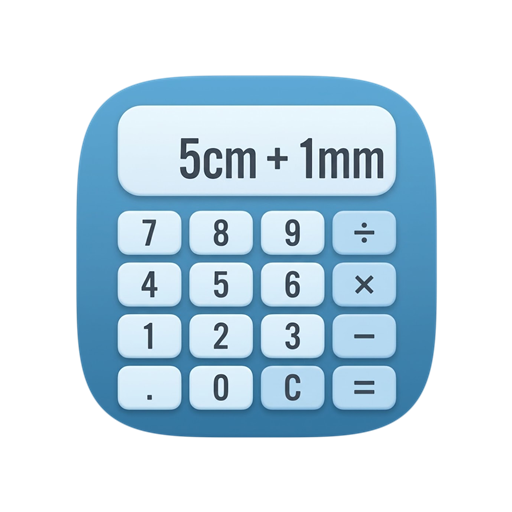
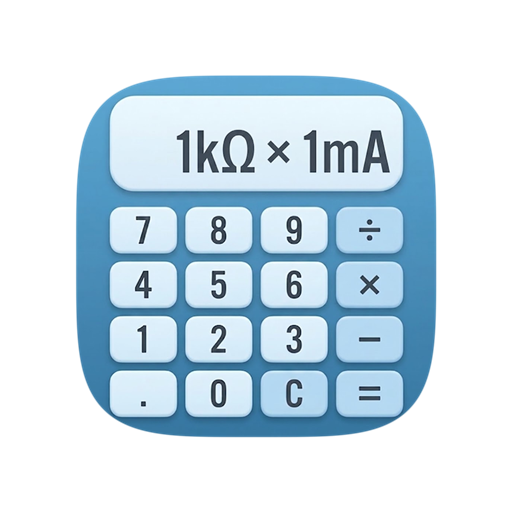
feat: アプリアイコンの刷新とストア用フィーチャーグラフィックの各国語更新
- アプリアイコンを「1kΩ × 1mA」電卓デザインへ刷新（アプリアイコン、適応型アイコン、スプラッシュ、ファビコン等）
- README およびアプリ内のオンボーディング／クイックスタート文言をアイコンに合わせて更新
- scripts/generate-feature-graphic.mjs を更新し、新文言（「計算に集中。単位合わせはUnitCalcに。」「1kΩ × 1mA → 1V」「電工試験から、科学・技術計算まで。」）を各国語（ja, en, de, fr, es, pt-BR）で再生成
- タイポグラフィ改善（JetBrains Mono, Noto Sans JP, Inter）と Windows 環境のブラウザ自動検出対応
- 全6言語の feature graphic および Play Store アイコンを更新

diff --git a/app/(tabs)/index.tsx b/app/(tabs)/index.tsx
@@ -71,11 +71,11 @@ const DEFAULT_TARGET_UNIT = "";
 const HEX_LETTER_KEYS = ["A", "B", "C", "D", "E", "F"];
 
 // 空状態の結果カードに置く「まず1つ試す」式。サンプルシート（SAMPLE_CALCULATIONS）の縮約版ではなく、
-// このアプリの3つの売り（単位のまま足せる・答えが読みやすい接頭語で返る・速さ×時間が距離になる）を
+// このアプリの3つの売り（オームの法則で電圧が求まる・答えが読みやすい接頭語で返る・速さ×時間が距離になる）を
 // 1タップずつで見せるための固定3件。表示単位は指定せず、表示単位の自動選択（lib/display-unit.ts）に
-// 任せる（5.1 cm / 2.55 mA / 90 km になることが、そのまま自動選択のデモになる）。
-const QUICK_START: { id: "length" | "current" | "distance"; expression: string }[] = [
-  { id: "length", expression: "5cm + 1mm" },
+// 任せる（1 V / 2.55 mA / 90 km になることが、そのまま自動選択のデモになる）。
+const QUICK_START: { id: "ohms_law" | "current" | "distance"; expression: string }[] = [
+  { id: "ohms_law", expression: "1kΩ × 1mA" },
   { id: "current", expression: "12V / 4.7kΩ" },
   { id: "distance", expression: "60km/h × 90min" },
 ];
@@ -100,7 +100,7 @@ const EN_COPY = {
   chooseSampleToStart: "Choose a sample calculation to begin.",
   savedItemLoaded: "Saved item loaded. Tap = to run it.",
   couldNotCopyCalculation: "Could not copy this calculation.",
-  expressionPlaceholder: "Example: 5cm + 1mm",
+  expressionPlaceholder: "Example: 1kΩ × 1mA",
   deleteKey: "Delete",
   clearAllKey: "Clear all",
   skip: "Skip",
@@ -121,7 +121,7 @@ const EN_COPY = {
   sampleConfirmButton: "Load",
   incompleteHint: "Keep typing — the result appears as soon as the expression is complete.",
   quickStartTitle: "Try one",
-  quickStartLength: "Add lengths in different units",
+  quickStartOhmsLaw: "Ohm's law — the answer comes back in V",
   quickStartCurrent: "Ohm's law — the answer comes back in mA",
   quickStartDistance: "Speed × time, shown in km",
 };
@@ -139,7 +139,7 @@ const COPY: Record<AppLanguage, typeof EN_COPY> = {
     chooseSampleToStart: "サンプル計算式を選んで試せます。",
     savedItemLoaded: "保存した項目を読み込みました。「=」を押して実行できます。",
     couldNotCopyCalculation: "計算結果をコピーできませんでした。",
-    expressionPlaceholder: "例：5cm + 1mm",
+    expressionPlaceholder: "例：1kΩ × 1mA",
     deleteKey: "一文字削除",
     clearAllKey: "全消去",
     skip: "スキップ",
@@ -160,7 +160,7 @@ const COPY: Record<AppLanguage, typeof EN_COPY> = {
     sampleConfirmButton: "読み込む",
     incompleteHint: "続けて入力すると、式が完成した時点で結果が出ます。",
     quickStartTitle: "試してみる",
-    quickStartLength: "単位の違う長さを足す",
+    quickStartOhmsLaw: "オームの法則 — 答えは 1 V で返る",
     quickStartCurrent: "オームの法則 — 答えは mA で返る",
     quickStartDistance: "速さ × 時間を km で表示",
   },
@@ -176,7 +176,7 @@ const COPY: Record<AppLanguage, typeof EN_COPY> = {
     chooseSampleToStart: "Elige un cálculo de ejemplo para empezar.",
     savedItemLoaded: "Elemento guardado cargado. Toca = para ejecutarlo.",
     couldNotCopyCalculation: "No se pudo copiar este cálculo.",
-    expressionPlaceholder: "Ejemplo: 5cm + 1mm",
+    expressionPlaceholder: "Ejemplo: 1kΩ × 1mA",
     deleteKey: "Eliminar",
     clearAllKey: "Borrar todo",
     skip: "Omitir",
@@ -197,7 +197,7 @@ const COPY: Record<AppLanguage, typeof EN_COPY> = {
     sampleConfirmButton: "Cargar",
     incompleteHint: "Sigue escribiendo: el resultado aparece en cuanto la expresión esté completa.",
     quickStartTitle: "Prueba uno",
-    quickStartLength: "Suma longitudes en distintas unidades",
+    quickStartOhmsLaw: "Ley de Ohm: la respuesta sale en V",
     quickStartCurrent: "Ley de Ohm: la respuesta sale en mA",
     quickStartDistance: "Velocidad × tiempo, mostrado en km",
   },
@@ -213,7 +213,7 @@ const COPY: Record<AppLanguage, typeof EN_COPY> = {
     chooseSampleToStart: "Escolha um cálculo de exemplo para começar.",
     savedItemLoaded: "Item salvo carregado. Toque em = para executá-lo.",
     couldNotCopyCalculation: "Não foi possível copiar este cálculo.",
-    expressionPlaceholder: "Exemplo: 5cm + 1mm",
+    expressionPlaceholder: "Exemplo: 1kΩ × 1mA",
     deleteKey: "Excluir",
     clearAllKey: "Limpar tudo",
     skip: "Pular",
@@ -234,7 +234,7 @@ const COPY: Record<AppLanguage, typeof EN_COPY> = {
     sampleConfirmButton: "Carregar",
     incompleteHint: "Continue digitando: o resultado aparece assim que a expressão estiver completa.",
     quickStartTitle: "Experimente",
-    quickStartLength: "Some comprimentos em unidades diferentes",
+    quickStartOhmsLaw: "Lei de Ohm: a resposta sai em V",
     quickStartCurrent: "Lei de Ohm: a resposta sai em mA",
     quickStartDistance: "Velocidade × tempo, exibido em km",
   },
@@ -250,7 +250,7 @@ const COPY: Record<AppLanguage, typeof EN_COPY> = {
     chooseSampleToStart: "Wähle eine Beispielberechnung, um zu starten.",
     savedItemLoaded: "Gespeicherter Eintrag geladen. Tippe auf =, um ihn auszuführen.",
     couldNotCopyCalculation: "Diese Berechnung konnte nicht kopiert werden.",
-    expressionPlaceholder: "Beispiel: 5cm + 1mm",
+    expressionPlaceholder: "Beispiel: 1kΩ × 1mA",
     deleteKey: "Rücktaste",
     clearAllKey: "Alles löschen",
     skip: "Überspringen",
@@ -271,7 +271,7 @@ const COPY: Record<AppLanguage, typeof EN_COPY> = {
     sampleConfirmButton: "Laden",
     incompleteHint: "Tippe weiter – das Ergebnis erscheint, sobald der Ausdruck vollständig ist.",
     quickStartTitle: "Probier eins",
-    quickStartLength: "Längen in verschiedenen Einheiten addieren",
+    quickStartOhmsLaw: "Ohmsches Gesetz – die Antwort kommt in V",
     quickStartCurrent: "Ohmsches Gesetz – die Antwort kommt in mA",
     quickStartDistance: "Geschwindigkeit × Zeit, angezeigt in km",
   },
@@ -287,7 +287,7 @@ const COPY: Record<AppLanguage, typeof EN_COPY> = {
     chooseSampleToStart: "Choisissez un calcul d'exemple pour commencer.",
     savedItemLoaded: "Élément enregistré chargé. Appuyez sur = pour l'exécuter.",
     couldNotCopyCalculation: "Impossible de copier ce calcul.",
-    expressionPlaceholder: "Exemple : 5cm + 1mm",
+    expressionPlaceholder: "Exemple : 1kΩ × 1mA",
     deleteKey: "Supprimer",
     clearAllKey: "Tout effacer",
     skip: "Passer",
@@ -308,7 +308,7 @@ const COPY: Record<AppLanguage, typeof EN_COPY> = {
     sampleConfirmButton: "Charger",
     incompleteHint: "Continuez à saisir : le résultat apparaît dès que l'expression est complète.",
     quickStartTitle: "Essayez",
-    quickStartLength: "Additionner des longueurs d'unités différentes",
+    quickStartOhmsLaw: "Loi d'Ohm : la réponse s'affiche en V",
     quickStartCurrent: "Loi d'Ohm : la réponse s'affiche en mA",
     quickStartDistance: "Vitesse × temps, affiché en km",
   },
@@ -318,34 +318,34 @@ const COPY: Record<AppLanguage, typeof EN_COPY> = {
 type OnboardingSlide = { title: string; body: string; example: string };
 const ONBOARDING_SLIDES: Record<AppLanguage, OnboardingSlide[]> = {
   en: [
-    { title: "Calculate with units, directly", body: "Type an expression with units, such as 5cm + 1mm. The app normalizes it to SI before calculating.", example: "5cm + 1mm" },
+    { title: "Calculate with units, directly", body: "Type an expression with units, such as 1kΩ × 1mA. The app normalizes it to SI before calculating.", example: "1kΩ × 1mA" },
     { title: "Mistakes are caught, not calculated", body: "3m + 2kg is refused with the reason: length and mass cannot be added. Mistyped units turn red — tap one to fix it.", example: "3m + 2kg" },
-    { title: "Answers in the unit you mean", body: "5cm + 1mm comes back as 5.1 cm, and 12V / 4.7kΩ as 2.55 mA. Tap a chip under the result to switch units. Step-by-step formulas live in the Library tab.", example: "12V / 4.7kΩ" },
+    { title: "Answers in the unit you mean", body: "1kΩ × 1mA comes back as 1 V, and 12V / 4.7kΩ as 2.55 mA. Tap a chip under the result to switch units. Step-by-step formulas live in the Library tab.", example: "12V / 4.7kΩ" },
   ],
   ja: [
-    { title: "単位のまま計算できます", body: "5cm + 1mm のように単位を含む式を入力するだけです。計算前にSI標準へ正規化されます。", example: "5cm + 1mm" },
+    { title: "単位のまま計算できます", body: "1kΩ × 1mA のように単位を含む式を入力するだけです。計算前にSI標準へ正規化されます。", example: "1kΩ × 1mA" },
     { title: "間違いは計算せず、理由を教えます", body: "3m + 2kg は「長さと質量は足し引きできません」と止まります。入力ミスの単位は赤くなり、タップで直せます。", example: "3m + 2kg" },
-    { title: "答えは読みたい単位で", body: "5cm + 1mm は 5.1 cm、12V / 4.7kΩ は 2.55 mA で返ります。結果の下のチップで単位を切り替えられます。手順のある公式は「ライブラリ」タブにあります。", example: "12V / 4.7kΩ" },
+    { title: "答えは読みたい単位で", body: "1kΩ × 1mA は 1 V、12V / 4.7kΩ は 2.55 mA で返ります。結果の下のチップで単位を切り替えられます。手順のある公式は「ライブラリ」タブにあります。", example: "12V / 4.7kΩ" },
   ],
   es: [
-    { title: "Calcula directamente con unidades", body: "Escribe una expresión con unidades, como 5cm + 1mm. La app la normaliza a SI antes de calcular.", example: "5cm + 1mm" },
+    { title: "Calcula directamente con unidades", body: "Escribe una expresión con unidades, como 1kΩ × 1mA. La app la normaliza a SI antes de calcular.", example: "1kΩ × 1mA" },
     { title: "Los errores se detectan, no se calculan", body: "3m + 2kg se rechaza con el motivo: longitud y masa no se pueden sumar. Las unidades mal escritas aparecen en rojo; tócalas para corregirlas.", example: "3m + 2kg" },
-    { title: "Respuestas en la unidad que quieres", body: "5cm + 1mm devuelve 5.1 cm, y 12V / 4.7kΩ devuelve 2.55 mA. Toca un chip bajo el resultado para cambiar de unidad. Las fórmulas paso a paso están en la pestaña Biblioteca.", example: "12V / 4.7kΩ" },
+    { title: "Respuestas en la unidad que quieres", body: "1kΩ × 1mA devuelve 1 V, y 12V / 4.7kΩ devuelve 2.55 mA. Toca un chip bajo el resultado para cambiar de unidad. Las fórmulas paso a paso están en la pestaña Biblioteca.", example: "12V / 4.7kΩ" },
   ],
   "pt-BR": [
-    { title: "Calcule diretamente com unidades", body: "Digite uma expressão com unidades, como 5cm + 1mm. O app a normaliza para SI antes de calcular.", example: "5cm + 1mm" },
+    { title: "Calcule diretamente com unidades", body: "Digite uma expressão com unidades, como 1kΩ × 1mA. O app a normaliza para SI antes de calcular.", example: "1kΩ × 1mA" },
     { title: "Erros são detectados, não calculados", body: "3m + 2kg é recusado com o motivo: comprimento e massa não podem ser somados. Unidades digitadas errado ficam vermelhas; toque para corrigir.", example: "3m + 2kg" },
-    { title: "Respostas na unidade que você quer", body: "5cm + 1mm retorna 5.1 cm, e 12V / 4.7kΩ retorna 2.55 mA. Toque em um chip abaixo do resultado para trocar a unidade. As fórmulas passo a passo ficam na aba Biblioteca.", example: "12V / 4.7kΩ" },
+    { title: "Respostas na unidade que você quer", body: "1kΩ × 1mA retorna 1 V, e 12V / 4.7kΩ retorna 2.55 mA. Toque em um chip abaixo do resultado para trocar a unidade. As fórmulas passo a passo ficam na aba Biblioteca.", example: "12V / 4.7kΩ" },
   ],
   de: [
-    { title: "Direkt mit Einheiten rechnen", body: "Gib einen Ausdruck mit Einheiten ein, zum Beispiel 5cm + 1mm. Die App normalisiert ihn vor der Berechnung auf SI.", example: "5cm + 1mm" },
+    { title: "Direkt mit Einheiten rechnen", body: "Gib einen Ausdruck mit Einheiten ein, zum Beispiel 1kΩ × 1mA. Die App normalisiert ihn vor der Berechnung auf SI.", example: "1kΩ × 1mA" },
     { title: "Fehler werden erkannt, nicht gerechnet", body: "3m + 2kg wird mit Begründung abgelehnt: Länge und Masse lassen sich nicht addieren. Falsch geschriebene Einheiten werden rot – tippe darauf, um sie zu korrigieren.", example: "3m + 2kg" },
-    { title: "Antworten in der Einheit, die du meinst", body: "5cm + 1mm ergibt 5.1 cm, 12V / 4.7kΩ ergibt 2.55 mA. Tippe auf einen Chip unter dem Ergebnis, um die Einheit zu wechseln. Schrittweise Formeln findest du im Tab Bibliothek.", example: "12V / 4.7kΩ" },
+    { title: "Antworten in der Einheit, die du meinst", body: "1kΩ × 1mA ergibt 1 V, 12V / 4.7kΩ ergibt 2.55 mA. Tippe auf einen Chip unter dem Ergebnis, um die Einheit zu wechseln. Schrittweise Formeln findest du im Tab Bibliothek.", example: "12V / 4.7kΩ" },
   ],
   fr: [
-    { title: "Calculez directement avec des unités", body: "Saisissez une expression avec des unités, comme 5cm + 1mm. L'application la normalise en SI avant de calculer.", example: "5cm + 1mm" },
+    { title: "Calculez directement avec des unités", body: "Saisissez une expression avec des unités, comme 1kΩ × 1mA. L'application la normalise en SI avant de calculer.", example: "1kΩ × 1mA" },
     { title: "Les erreurs sont détectées, pas calculées", body: "3m + 2kg est refusé avec la raison : une longueur et une masse ne s'additionnent pas. Les unités mal saisies passent en rouge ; touchez-les pour les corriger.", example: "3m + 2kg" },
-    { title: "Des réponses dans l'unité voulue", body: "5cm + 1mm donne 5.1 cm et 12V / 4.7kΩ donne 2.55 mA. Touchez une puce sous le résultat pour changer d'unité. Les formules pas à pas sont dans l'onglet Bibliothèque.", example: "12V / 4.7kΩ" },
+    { title: "Des réponses dans l'unité voulue", body: "1kΩ × 1mA donne 1 V et 12V / 4.7kΩ donne 2.55 mA. Touchez une puce sous le résultat pour changer d'unité. Les formules pas à pas sont dans l'onglet Bibliothèque.", example: "12V / 4.7kΩ" },
   ],
 };
 
@@ -1550,7 +1550,7 @@ export default function CalculatorScreen() {
                         >
                           <Text style={styles.quickStartExpression}>{item.expression}</Text>
                           <Text numberOfLines={2} style={styles.quickStartHint}>
-                            {item.id === "length" ? copy.quickStartLength : item.id === "current" ? copy.quickStartCurrent : copy.quickStartDistance}
+                            {item.id === "ohms_law" ? copy.quickStartOhmsLaw : item.id === "current" ? copy.quickStartCurrent : copy.quickStartDistance}
                           </Text>
                           <IconSymbol name="chevron.right" size={11} color={colors.primary} />
                         </Pressable>

diff --git a/README.md b/README.md
@@ -1,10 +1,10 @@
 # UnitCalc（単位付き電卓）
 
-単位を含む式（例: `5cm + 1mm`）をそのまま計算し、SI基底単位への正規化結果と、任意の出力単位への換算結果を同時に確認できる電卓アプリです。Expo (React Native) 製で、iOS / Android / Web で動作します。
+単位を含む式（例: `1kΩ × 1mA`）をそのまま計算し、SI基底単位への正規化結果と、任意の出力単位への換算結果を同時に確認できる電卓アプリです。Expo (React Native) 製で、iOS / Android / Web で動作します。
 
 ## 主な機能
 
-- `5cm + 1mm` のような単位付き数式の直接計算
+- `1kΩ × 1mA` のような単位付き数式の直接計算
 - 計算結果のSI標準単位への自動正規化
 - 出力単位の切り替え（`cm`, `m`, `%`, `ppm` など）
 - `W = 3cm` のような定数（記号）の登録・編集・削除
